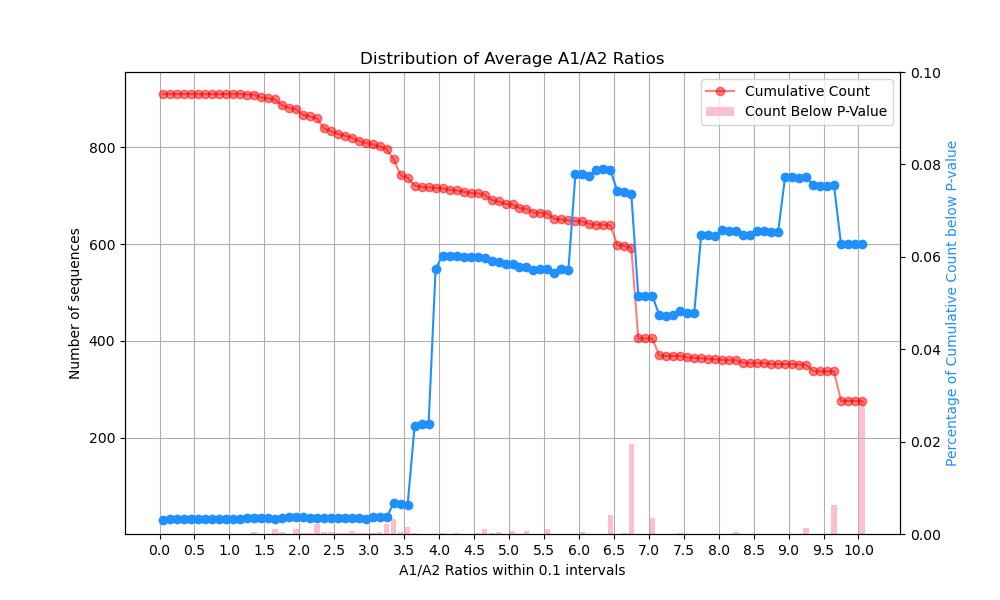
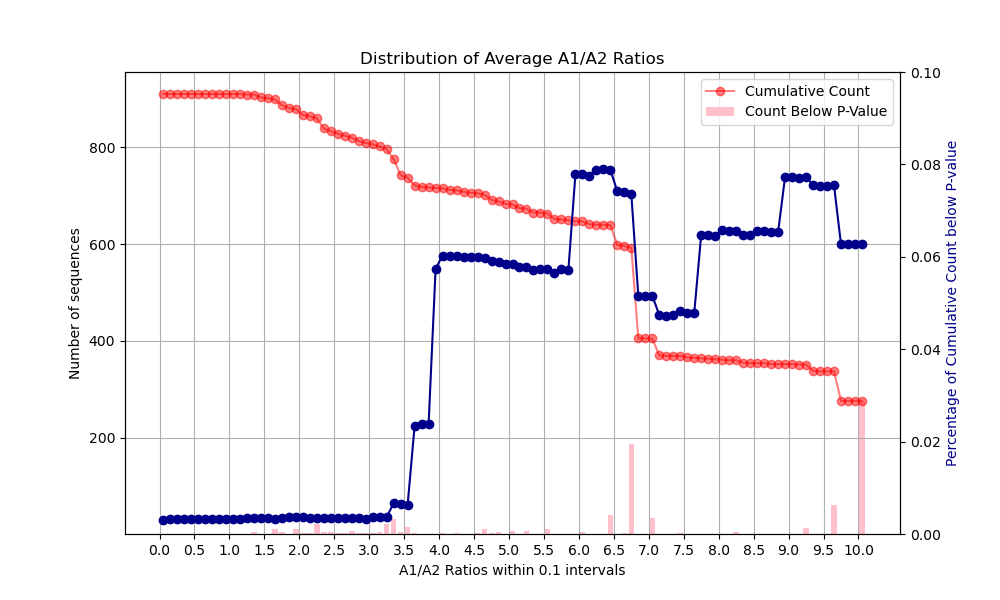
Continued Tweeks for HK and paper

diff --git a/utils/HK_fileConversion.py b/utils/HK_fileConversion.py
@@ -10,8 +10,11 @@ from os.path import join, splitext, basename
 Each file has the entry on every other line
 '''
 
-def intermediateProcessing(filePath, includeSurrounding=False, targetBaseLength=36, normalizeCount=True, outputDirectory='', outputAmino= True, createLogoplot=True):
+def intermediateProcessing(filePath, includeSurrounding=False, targetBaseLength=36, normalizeCount=True, outputDirectory='', 
+                           outputAmino= True, createLogoplot=True, motrif_presequence_length : int = 0, motrif_postsequence_length : int = 0):
     raw_data = []
+    
+    motrif_postsequence_length = -motrif_postsequence_length if motrif_postsequence_length != 0 else None
     
     with open(filePath, 'r') as file:
         lines = file.readlines()
@@ -20,13 +23,20 @@ def intermediateProcessing(filePath, includeSurrounding=False, targetBaseLength=
     sequence_Counts = {}
     for entry in raw_data:
         entry_length = len(entry)
-        if entry_length not in sequence_Counts:
-            sequence_Counts[entry_length] = {}
         
-        if entry not in sequence_Counts[entry_length]:
-            sequence_Counts[entry_length][entry] = 1
+        if(entry_length < (motrif_presequence_length or 0) + (motrif_postsequence_length or 0)):
+            continue
+        
+        motif_seq = entry[(motrif_presequence_length or 0): motrif_postsequence_length]
+        len_motif_seq = len(motif_seq)
+        
+        if len_motif_seq not in sequence_Counts:
+            sequence_Counts[len_motif_seq] = {}
+        
+        if entry not in sequence_Counts[len_motif_seq]:
+            sequence_Counts[len_motif_seq][motif_seq] = 1
         else:
-            sequence_Counts[entry_length][entry] += 1
+            sequence_Counts[len_motif_seq][motif_seq] += 1
         
     for key, value in sequence_Counts.items():
         sequence_Counts[key] = dict(sorted(value.items(), key=lambda item: item[1], reverse=True))    
@@ -44,6 +54,8 @@ def intermediateProcessing(filePath, includeSurrounding=False, targetBaseLength=
         aminoDictionary = {}
         for seq, counts in sequence_Counts[targetBaseLength].items():
             amio_seq = aminoConversion(seq)
+            if amio_seq == "":
+                continue
             aminoDictionary[amio_seq] = aminoDictionary.get(amio_seq, 0) + counts
     else:
         aminoDictionary = sequence_Counts[targetBaseLength].copy()
@@ -107,4 +119,197 @@ def aminoConversion(seqParameter):
         "ATT":"I", "ATG":"M", "ATC":"I", "ATA":"I", "AGT":"S", "AGG":"R", "AGC":"S", "AGA":"R", "ACT":"T", "ACG":"T", "ACC":"T", "ACA":"T", "AAT":"N", "AAG":"K", "AAC":"N", "AAA":"K"
     }
     
+    if "N" in seqParameter:
+        return ""
+    
     return "".join(conversionDicitionary[t] for t in ["".join([seqParameter[j] for j in range(i, i+3)]) for i in range(0, len(seqParameter) - 2, 3) ])
+    
+    
+def logoplot(sequenceCounts, fileBase="TempLogoPlot", outputDirectory="."):
+    import logomaker as lm
+    validBases = "CS*TAGPDEQNHKRMILVWYF"
+    
+    validBasedict = {base: idx for idx, base in enumerate(validBases)}
+    
+    matrix = np.zeros((len(validBases), max(len(seq) for seq in sequenceCounts.keys())))
+    
+    for seq, count in sequenceCounts.items():
+        for position, base in enumerate(seq):
+            matrix[validBasedict[base], position] += count
+            
+    matrixDataFrame = pd.DataFrame(matrix.T, columns=list(validBases))
+    logo = lm.Logo(matrixDataFrame, color_scheme= {
+        'A': '#f76ab4',
+        'C': '#ff7f00',
+        'D': '#e41a1c',
+        'E': '#e41a1c',
+        'F': '#84380b',
+        'G': '#f76ab4',
+        'H': '#3c58e5',
+        'I': '#12ab0d',
+        'K': '#3c58e5',
+        'L': '#12ab0d',
+        'M': '#12ab0d',
+        'N': '#972aa8',
+        'P': '#12ab0d',
+        'Q': '#972aa8',
+        'R': '#3c58e5',
+        'S': '#ff7f00',
+        'T': '#ff7f00',
+        'V': '#12ab0d',
+        'W': '#84380b',
+        'Y': '#84380b',
+        '*' : '#000000'
+    })
+    logo.ax.set_ylabel('Frequency')
+    logo.ax.set_xlabel('Position')
+    logo.ax.set_title('Amino Acid Frequency')
+    logo.ax.figure.savefig(join(outputDirectory, f"{fileBase}_logoplot.png"))
+    
+def comparisionScatter(file1, file2, point = 25, minCount = 0.003):
+    data1 = {}
+    remaining_1 = {}
+    
+    with open(file1, 'r') as f:
+        next(f)  # Skip header
+        next(f)  # Skip NORMALIZED_ONE_COUNT line
+        for i, line in enumerate(f):
+            seq, mean, std = line.strip().split(',')
+            if(float(mean) > 0.0001 and i < 1000):
+                data1[seq] = i + 1
+                
+            remaining_1[seq] = i + 1
+            
+    data2 = {}
+    remaining_2 = {}
+    with open(file2, 'r') as f:
+        next(f)  # Skip header
+        next(f)  # Skip NORMALIZED_ONE_COUNT line
+        for i, line in enumerate(f):
+            seq, mean, std = line.strip().split(',')
+            if(float(mean) > 0.0001 and i < point):
+                data2[seq] = i + 1
+            
+            remaining_2[seq] = i + 1
+            
+    common_seqs = set(data1.keys()).union(set(data2.keys()))
+    common_seqs = common_seqs.intersection(set(remaining_1.keys())).intersection(set(remaining_2.keys()))
+    
+    x = [remaining_1.get(seq, point) for seq in data2.keys()]
+    y = [remaining_2.get(seq, 1000) for seq in data2.keys()]
+    d2_keys = list(data2.keys())
+    
+    
+    sequences_Below = [x[i] - y[i] for i in range(len(x))]
+    index = np.where(np.array(sequences_Below) > 0)[0]
+    print(index)
+    
+    x1 = np.arange(1, point)
+    y1 = x1 * 1 + 0
+    
+    cutoffPoint = 0
+    for i in range(len(y)):
+        t = remaining_2[d2_keys[i]]
+        t1 = t < minCount
+        if remaining_2[d2_keys[i]] < minCount:
+            cutoffPoint = i
+            break
+    
+    plt.scatter(x, y)
+    plt.scatter(data1["TKRKHPHRRKYR"], data2["TKRKHPHRRKYR"], color='green', s=100, label='TKRKHPHRRKYR')
+    plt.axhline(y=remaining_2[d2_keys[10]], color='blue', linestyle='--', label='Cutoff Line')
+    plt.plot(x1, y1, color='red', linestyle='--')
+    plt.xlabel('P 1 Sequence Ranking (Lower is Better)')
+    plt.ylabel('P  Sequence Ranking (Lower is Better)')
+    plt.title('Sequence Index Comparison')
+    
+    #X axis log
+    plt.xscale('log')
+    
+    plt.show()
+    
+def comparisionScatter2(file1, file2):
+    data1 = {}
+    
+    with open(file1, 'r') as f:
+        next(f)  # Skip header
+        next(f)  # Skip NORMALIZED_ONE_COUNT line
+        for i, line in enumerate(f):
+            seq, mean, std = line.strip().split(',')
+            if(float(mean) > 0.0001 and i < 100):
+                data1[seq] = i + 1
+            
+    data2 = {}
+    with open(file2, 'r') as f:
+        next(f)  # Skip header
+        next(f)  # Skip NORMALIZED_ONE_COUNT line
+        for i, line in enumerate(f):
+            seq, mean, std = line.strip().split(',')
+            if(float(mean) > 0.0001 and i < 100):
+                data2[seq] = i + 1
+            
+    common_seqs = set(data1.keys()).intersection(set(data2.keys()))
+    
+    x = [data1[seq] for seq in common_seqs]
+    y = [data2[seq] for seq in common_seqs]
+    y2 =[(data2[seq] - data1[seq]) / data1[seq] for seq in common_seqs]
+    
+    sequences_Below = [x[i] - y[i] for i in range(len(x))]
+    index = np.where(np.array(sequences_Below) > 0)[0]
+    common_seqs_list = list(common_seqs)
+    print(index)
+    
+    x1 = np.arange(1, 100)
+    
+    plt.scatter(x, y)
+    plt.scatter(data1["TKRKHPHRRKYR"], (data2["TKRKHPHRRKYR"] - data1["TKRKHPHRRKYR"]) / data1["TKRKHPHRRKYR"], color='green', s=100, label='TKRKHPHRRKYR')
+    #plt.scatter([data1[common_seqs_list[i]] for i in index], [y2[i] for i in index], color='red', s=50, label='Improved in P4')
+   
+   
+    # plt.plot(x1, x1, color='red', linestyle='--')
+    plt.xlabel('P 1 Sequence Ranking (Lower is Better)')
+    plt.ylabel('Ratio decrease in ranking')
+    plt.title('(F4_index - F1_index) / F1_index Comparison')
+    plt.show()
+    
+def overlappingPatched():
+    rect1 = plt.Rectangle((1, 1), 20, 2, color='blue', alpha=0.5)
+    rect2 = plt.Rectangle((2, 2), 20, 2, color='red', alpha=0.5)
+    
+    fig, ax = plt.subplots()
+    ax.add_patch(rect1)
+    ax.add_patch(rect2)
+    # plt.xlim(0, 5)
+    plt.ylim(0, 5)
+    plt.xscale('log')
+    plt.show()
+            
+
+# intermediateProcessing("HK_Nov/Database 2.fasta/R3.fasta", includeSurrounding=True, targetBaseLength= 36,
+#                         outputDirectory='HK_Nov/Database 2.fasta/', outputAmino=True, normalizeCount=True, createLogoplot=True,
+#                         motrif_presequence_length= 18 * 3, motrif_postsequence_length= 0)             
+# intermediateProcessing("HK_Nov/Database 2.fasta/R6.fasta", includeSurrounding=True, targetBaseLength=36,
+#                         outputDirectory='HK_Nov/Database 2.fasta/', outputAmino=True, normalizeCount=True, createLogoplot=True,
+#                         motrif_presequence_length= 18 * 3, motrif_postsequence_length= 0)
+# intermediateProcessing("HK_Nov/Database 2.fasta/R7.fasta", includeSurrounding=True, targetBaseLength=36,
+#                         outputDirectory='HK_Nov/Database 2.fasta/', outputAmino=True, normalizeCount=True, createLogoplot=True,
+#                         motrif_presequence_length= 18 * 3, motrif_postsequence_length= 0)
+
+# intermediateProcessing("HK_Nov/Database 3.fasta/R3.fasta", includeSurrounding=True, targetBaseLength=36,
+#                         outputDirectory='HK_Nov/Database 3.fasta/', outputAmino=True, normalizeCount=True, createLogoplot=True,
+#                         motrif_presequence_length= 0, motrif_postsequence_length= 18 * 3)           
+# intermediateProcessing("HK_Nov/Database 3.fasta/R6.fasta", includeSurrounding=True, targetBaseLength=36,
+#                         outputDirectory='HK_Nov/Database 3.fasta/', outputAmino=True, normalizeCount=True, createLogoplot=True,
+#                         motrif_presequence_length= 0, motrif_postsequence_length= 18 * 3)  
+intermediateProcessing("HK_Nov/Database 3.fasta/R7.fasta", includeSurrounding=True, targetBaseLength=36,
+                        outputDirectory='HK_Nov/Database 3.fasta/', outputAmino=True, normalizeCount=True, createLogoplot=True,
+                        motrif_presequence_length= 0, motrif_postsequence_length= 18 * 3)  
+
+# # print(aminoConversion("GCGCAGCGTTAGCATCCTCATGTGCCTAAGTGTCAG"))
+
+# comparisionScatter("dev_Tools/P1.merge.csv", "dev_Tools/P3.merge.csv")
+# overlappingPatched()
+
+#Flip sequence
+
+            

diff --git a/dev_Tools/sandbox.py b/dev_Tools/sandbox.py
@@ -10,8 +10,11 @@ from os.path import join, splitext, basename
 Each file has the entry on every other line
 '''
 
-def intermediateProcessing(filePath, includeSurrounding=False, targetBaseLength=36, normalizeCount=True, outputDirectory='', outputAmino= True, createLogoplot=True):
+def intermediateProcessing(filePath, includeSurrounding=False, targetBaseLength=36, normalizeCount=True, outputDirectory='', 
+                           outputAmino= True, createLogoplot=True, motrif_presequence_length : int = 0, motrif_postsequence_length : int = 0):
     raw_data = []
+    
+    motrif_postsequence_length = -motrif_postsequence_length if motrif_postsequence_length != 0 else None
     
     with open(filePath, 'r') as file:
         lines = file.readlines()
@@ -20,13 +23,20 @@ def intermediateProcessing(filePath, includeSurrounding=False, targetBaseLength=
     sequence_Counts = {}
     for entry in raw_data:
         entry_length = len(entry)
-        if entry_length not in sequence_Counts:
-            sequence_Counts[entry_length] = {}
         
-        if entry not in sequence_Counts[entry_length]:
-            sequence_Counts[entry_length][entry] = 1
+        if(entry_length < (motrif_presequence_length or 0) + (motrif_postsequence_length or 0)):
+            continue
+        
+        motif_seq = entry[(motrif_presequence_length or 0): motrif_postsequence_length]
+        len_motif_seq = len(motif_seq)
+        
+        if len_motif_seq not in sequence_Counts:
+            sequence_Counts[len_motif_seq] = {}
+        
+        if entry not in sequence_Counts[len_motif_seq]:
+            sequence_Counts[len_motif_seq][motif_seq] = 1
         else:
-            sequence_Counts[entry_length][entry] += 1
+            sequence_Counts[len_motif_seq][motif_seq] += 1
         
     for key, value in sequence_Counts.items():
         sequence_Counts[key] = dict(sorted(value.items(), key=lambda item: item[1], reverse=True))    
@@ -275,9 +285,26 @@ def overlappingPatched():
     plt.show()
             
 
-                
-intermediateProcessing("HK_Nov/Database 1.fasta/R3.fasta", includeSurrounding=True, targetBaseLength=36,
-                        outputDirectory='HK_Nov/Database 1.fasta/', outputAmino=True, normalizeCount=True, createLogoplot=True)
+# intermediateProcessing("HK_Nov/Database 2.fasta/R3.fasta", includeSurrounding=True, targetBaseLength= 36,
+#                         outputDirectory='HK_Nov/Database 2.fasta/', outputAmino=True, normalizeCount=True, createLogoplot=True,
+#                         motrif_presequence_length= 18 * 3, motrif_postsequence_length= 0)             
+# intermediateProcessing("HK_Nov/Database 2.fasta/R6.fasta", includeSurrounding=True, targetBaseLength=36,
+#                         outputDirectory='HK_Nov/Database 2.fasta/', outputAmino=True, normalizeCount=True, createLogoplot=True,
+#                         motrif_presequence_length= 18 * 3, motrif_postsequence_length= 0)
+# intermediateProcessing("HK_Nov/Database 2.fasta/R7.fasta", includeSurrounding=True, targetBaseLength=36,
+#                         outputDirectory='HK_Nov/Database 2.fasta/', outputAmino=True, normalizeCount=True, createLogoplot=True,
+#                         motrif_presequence_length= 18 * 3, motrif_postsequence_length= 0)
+
+# intermediateProcessing("HK_Nov/Database 3.fasta/R3.fasta", includeSurrounding=True, targetBaseLength=36,
+#                         outputDirectory='HK_Nov/Database 3.fasta/', outputAmino=True, normalizeCount=True, createLogoplot=True,
+#                         motrif_presequence_length= 0, motrif_postsequence_length= 18 * 3)           
+# intermediateProcessing("HK_Nov/Database 3.fasta/R6.fasta", includeSurrounding=True, targetBaseLength=36,
+#                         outputDirectory='HK_Nov/Database 3.fasta/', outputAmino=True, normalizeCount=True, createLogoplot=True,
+#                         motrif_presequence_length= 0, motrif_postsequence_length= 18 * 3)  
+intermediateProcessing("HK_Nov/Database 3.fasta/R7.fasta", includeSurrounding=True, targetBaseLength=36,
+                        outputDirectory='HK_Nov/Database 3.fasta/', outputAmino=True, normalizeCount=True, createLogoplot=True,
+                        motrif_presequence_length= 0, motrif_postsequence_length= 18 * 3)  
+
 # # print(aminoConversion("GCGCAGCGTTAGCATCCTCATGTGCCTAAGTGTCAG"))
 
 # comparisionScatter("dev_Tools/P1.merge.csv", "dev_Tools/P3.merge.csv")

diff --git a/dev_Tools/sandbox2.py b/dev_Tools/sandbox2.py
@@ -1,47 +1,7 @@
 import pandas as pd
+import csv
 
-t = ['SHSSCEGAAAYRCGGGS', 'SHSSCEGKGGRGCGGGS', 'SHSSCGDGGGKRCGGGS',
-       'SHSSCGEGRGVGCGGGS', 'SHSSCGGRGGGWCGGGS', 'SHSSCGGSLGAWCGGGS',
-       'SHSSCGGTLGAWCGGGS', 'SHSSCGGVWVGLCGGGS', 'SHSSCGGVWVVLCGGGS',
-       'SHSSCGKDRALRCGGGS', 'SHSSCGLWARVGCGGGS', 'SHSSCGMWARVGCGGGS',
-       'SHSSCGSGGGGGCGGGS', 'SHSSCGVTLGAWCGGGS', 'SHSSCHAPTNRLCGGGS',
-       'SHSSCHNPTHPTCGGGS', 'SHSSCHNPTHQTCGGGS', 'SHSSCHPPSLRTCGGGS',
-       'SHSSCIDGGGGFCGGGS', 'SHSSCKKPTHQTCGGGS', 'SHSSCKNQPGPHCGGGS',
-       'SHSSCKPLTPPTCGGGS', 'SHSSCKPPTPQTCGGGS', 'SHSSCKQASAPTCGGGS',
-       'SHSSCKQPTPPHCGGGS', 'SHSSCKQQTPVGCGGGS', 'SHSSCKSTTPHTCGGGS',
-       'SHSSCKTTTPQTCGGGS', 'SHSSCLDGGGGFCGGGS', 'SHSSCLGTTHPRCGGGS',
-       'SHSSCLQPPPPHCGGGS', 'SHSSCLWIGGGGCGGGS', 'SHSSCNKVTHQTCGGGS',
-       'SHSSCNTTSDKNCGGGS', 'SHSSCPGPAAPACGGGS', 'SHSSCPPRPPTQCGGGS',
-       'SHSSCPPTTATYCGGGS', 'SHSSCPQLSQQQCGGGS', 'SHSSCPQPWQQQCGGGS',
-       'SHSSCPTRPQHACGGGS', 'SHSSCPWSPQPMCGGGS', 'SHSSCQALHASSCGGGS',
-       'SHSSCQAPPLPACGGGS', 'SHSSCQAQHASSCGGGS', 'SHSSCQAQLASSCGGGS',
-       'SHSSCQEQHPAMCGGGS', 'SHSSCQGLSWGMCGGGS', 'SHSSCRSLHEDFCGGGS',
-       'SHSSCSPPQKLTCGGGS', 'SHSSCTAMTNPRCGGGS', 'SHSSCTAPSKRHCGGGS',
-       'SHSSCTAPSQRNCGGGS', 'SHSSCTATQPQTCGGGS', 'SHSSCTGTLGPKCGGGS',
-       'SHSSCTPTAPPTCGGGS', 'SHSSCTRLPPTTCGGGS', 'SHSSCVASTPTACGGGS',
-       'SHSSCVPPHENTCGGGS', 'SHSSCVRDGGSGCGGGS', 'SHSSCWRPDGWSCGGGS']
+t = "sdfgh"
 
-t1 = ['SHSSCEGAAAYRCGGGS', 'SHSSCEGKGGRGCGGGS', 'SHSSCGDGGGKRCGGGS',
-       'SHSSCGEGRGVGCGGGS', 'SHSSCGGRGGGWCGGGS', 'SHSSCGGSLGAWCGGGS',
-       'SHSSCGGTLGAWCGGGS', 'SHSSCGGVWVGLCGGGS', 'SHSSCGGVWVVLCGGGS',
-       'SHSSCGKDRALRCGGGS', 'SHSSCGLWARVGCGGGS', 'SHSSCGMWARVGCGGGS',
-       'SHSSCGSGGGGGCGGGS', 'SHSSCGVTLGAWCGGGS', 'SHSSCHAPTNRLCGGGS',
-       'SHSSCHNPTHPTCGGGS', 'SHSSCHNPTHQTCGGGS', 'SHSSCHPPSLRTCGGGS',
-       'SHSSCIDGGGGFCGGGS', 'SHSSCKKPTHQTCGGGS', 'SHSSCKNQPGPHCGGGS',
-       'SHSSCKPLTPPTCGGGS', 'SHSSCKPPTPQTCGGGS', 'SHSSCKQASAPTCGGGS',
-       'SHSSCKQPTPPHCGGGS', 'SHSSCKQQTPVGCGGGS', 'SHSSCKSTTPHTCGGGS',
-       'SHSSCKTTTPQTCGGGS', 'SHSSCLDGGGGFCGGGS', 'SHSSCLGTTHPRCGGGS',
-       'SHSSCLQPPPPHCGGGS', 'SHSSCLWIGGGGCGGGS', 'SHSSCNKVTHQTCGGGS',
-       'SHSSCNTTSDKNCGGGS', 'SHSSCPGPAAPACGGGS', 'SHSSCPPRPPTQCGGGS',
-       'SHSSCPPTTATYCGGGS', 'SHSSCPQLSQQQCGGGS', 'SHSSCPQPWQQQCGGGS',
-       'SHSSCPTRPQHACGGGS', 'SHSSCPWSPQPMCGGGS', 'SHSSCQALHASSCGGGS',
-       'SHSSCQAPPLPACGGGS', 'SHSSCQAQHASSCGGGS', 'SHSSCQAQLASSCGGGS',
-       'SHSSCQEQHPAMCGGGS', 'SHSSCQGLSWGMCGGGS', 'SHSSCRSLHEDFCGGGS',
-       'SHSSCSPPQKLTCGGGS', 'SHSSCTAMTNPRCGGGS', 'SHSSCTAPSKRHCGGGS',
-       'SHSSCTAPSQRNCGGGS', 'SHSSCTATQPQTCGGGS', 'SHSSCTGTLGPKCGGGS',
-       'SHSSCTPTAPPTCGGGS', 'SHSSCTRLPPTTCGGGS', 'SHSSCVASTPTACGGGS',
-       'SHSSCVPPHENTCGGGS', 'SHSSCVRDGGSGCGGGS', 'SHSSCWRPDGWSCGGGS']
-
-for i in range(len(t)):
-    if t[i] != t1[i]:
-        print(f"Difference at index {i}: {t[i]} != {t1[i]}")
+print(t[None: -None])
+       

diff --git a/dev_Tools/visualizationGraphs.py b/dev_Tools/visualizationGraphs.py
@@ -76,8 +76,8 @@ def plot_distribution_2(ratio_ranges, counts, counts_below, output_path, counts_
     
     ax2 = ax1.twinx()
 
-    ax2.plot(ratio_ranges, s1, color='dodgerblue', marker='o', label='Ratio of squence count below P-Value to sequence count greater than A1vA2 Ratio')
-    ax2.set_ylabel('Percentage of Cumulative Count below P-value', color='dodgerblue')
+    ax2.plot(ratio_ranges, s1, color='darkblue', marker='o', label='Ratio of squence count below P-Value to sequence count greater than A1vA2 Ratio')
+    ax2.set_ylabel('Percentage of Cumulative Count below P-value', color='darkblue')
     ax2.tick_params(axis='y')
     ax2.set_ylim(bottom=0, top=max_s1)
     #ax2.legend()
